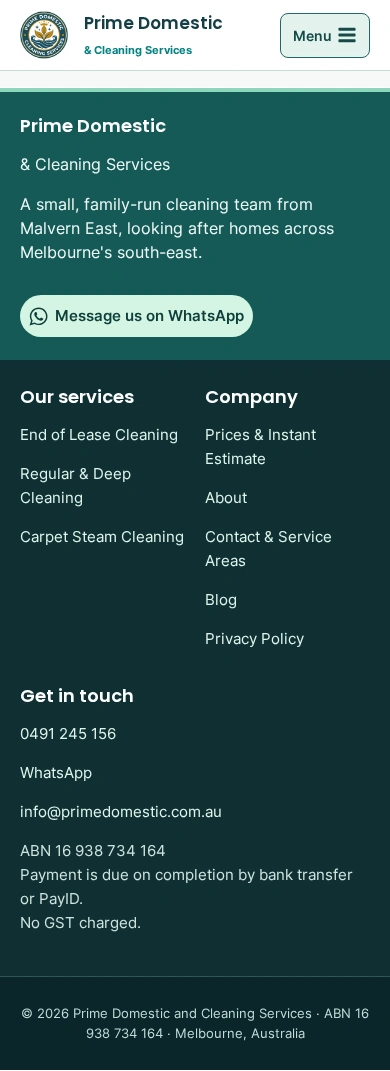
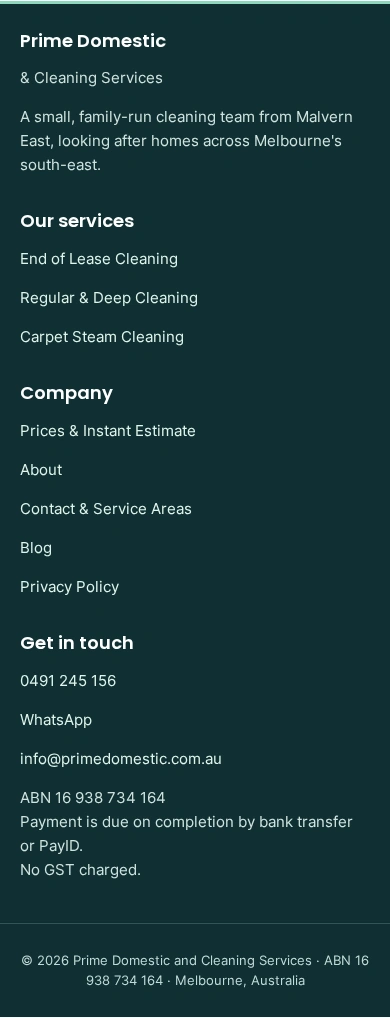
Unify the Kadence footer and remove its duplicate WhatsApp action

diff --git a/docs/native-migration/HANDOVER.md b/docs/native-migration/HANDOVER.md
@@ -46,17 +46,18 @@ The service comparisons now use labelled cards; edit their Heading and Paragraph
 
 1. In the Prime site's WordPress dashboard, open **Plugins → Add New Plugin**. Install and activate **Customizer Export/Import** by Beaver Builder.
 2. Open **Appearance → Customize → Export/Import**. Click **Export** to download a copy of the current theme settings. For a complete rollback point, use Local’s site export before importing.
-3. Under **Import**, choose [Prime-Header-Footer.dat](exports/Prime-Header-Footer.dat), leave **Download and import image files?** unchecked and click **Import**. Open the site in a fresh tab.
-4. Check the desktop phone link and **Request a quote** button, then open **Menu** on a narrow screen. At the footer, check the WhatsApp button, services, company links and contact details.
+3. To update an existing two-tone footer, choose [Prime-Single-Footer.dat](exports/Prime-Single-Footer.dat). For the complete header and footer on a fresh setup, choose [Prime-Header-Footer.dat](exports/Prime-Header-Footer.dat). Leave **Download and import image files?** unchecked, click **Import** and open the site in a fresh tab.
+4. Check the desktop phone link and **Request a quote** button, then open **Menu** on a narrow screen. At the footer, check the four widget areas and the WhatsApp link under **Get in touch**.
 
-The preset expects Prime’s Kadence parent theme and the existing four footer widget areas. It places Footer 1 in the upper brand row and Footer 2–4 in the lower row. It sets the desktop phone and footer WhatsApp destinations. The site supplies its own logo, navigation menus, quote URL, copyright and widget text. Import the preset once when adopting the design. Importing it again reapplies its layout and style settings.
+The preset expects Prime’s Kadence parent theme and the existing four footer widget areas. The four widget areas share one dark row on desktop, wrap into two columns on tablet and stack on mobile. The copyright appears below a thin divider. The site supplies its own logo, navigation menus, quote URL, copyright and widget text. Import the preset once when adopting the design. Importing it again reapplies its layout and style settings.
 
 | To edit | Where to go |
 | --- | --- |
 | Desktop service area and phone label | Appearance → Customize → Header → Top Row → HTML or Social |
-| Phone or WhatsApp destination | Appearance → Customize → General → Social Links |
+| Desktop header phone destination | Appearance → Customize → General → Social Links |
 | Quote button or mobile Menu button | Appearance → Customize → Header → Button or the mobile Trigger |
 | Footer brand, services, company and contact text | Appearance → Widgets → Footer 1 through Footer 4 |
-| Footer WhatsApp label, row colours and spacing | Appearance → Customize → Footer → Social or the relevant row |
+| Footer WhatsApp label and destination | Appearance → Widgets → Footer 4 → WhatsApp link |
+| Footer colours and spacing | Appearance → Customize → Footer → Middle Row or Bottom Row |
 
 The plugin transfers the preset. Kadence renders the design and provides the editing controls afterward.

diff --git a/docs/native-migration/README.md b/docs/native-migration/README.md
@@ -2,7 +2,7 @@
 
 The native page package includes the editable Request a Quote estimator and Derick’s approved prices. Follow the [staging installation and acceptance checks](ESTIMATOR.md) before publishing.
 
-For an existing LocalWP site, [import the updated header and footer](HANDOVER.md#applying-the-header-and-footer-to-prime-in-localwp). Preview the updated [mobile](screenshots/prime-header-footer-mobile.webp) and [desktop](screenshots/prime-header-footer-desktop.webp) layouts. See the [17 November page design and plugin review](ENHANCEMENT.md) for earlier layouts.
+For an existing LocalWP site, [import the updated header and footer](HANDOVER.md#applying-the-header-and-footer-to-prime-in-localwp). See the footer on [mobile](screenshots/prime-header-footer-mobile.webp) and [desktop](screenshots/prime-header-footer-desktop.webp). See the [17 November page design and plugin review](ENHANCEMENT.md) for earlier layouts.
 
 ## What is implemented
 
